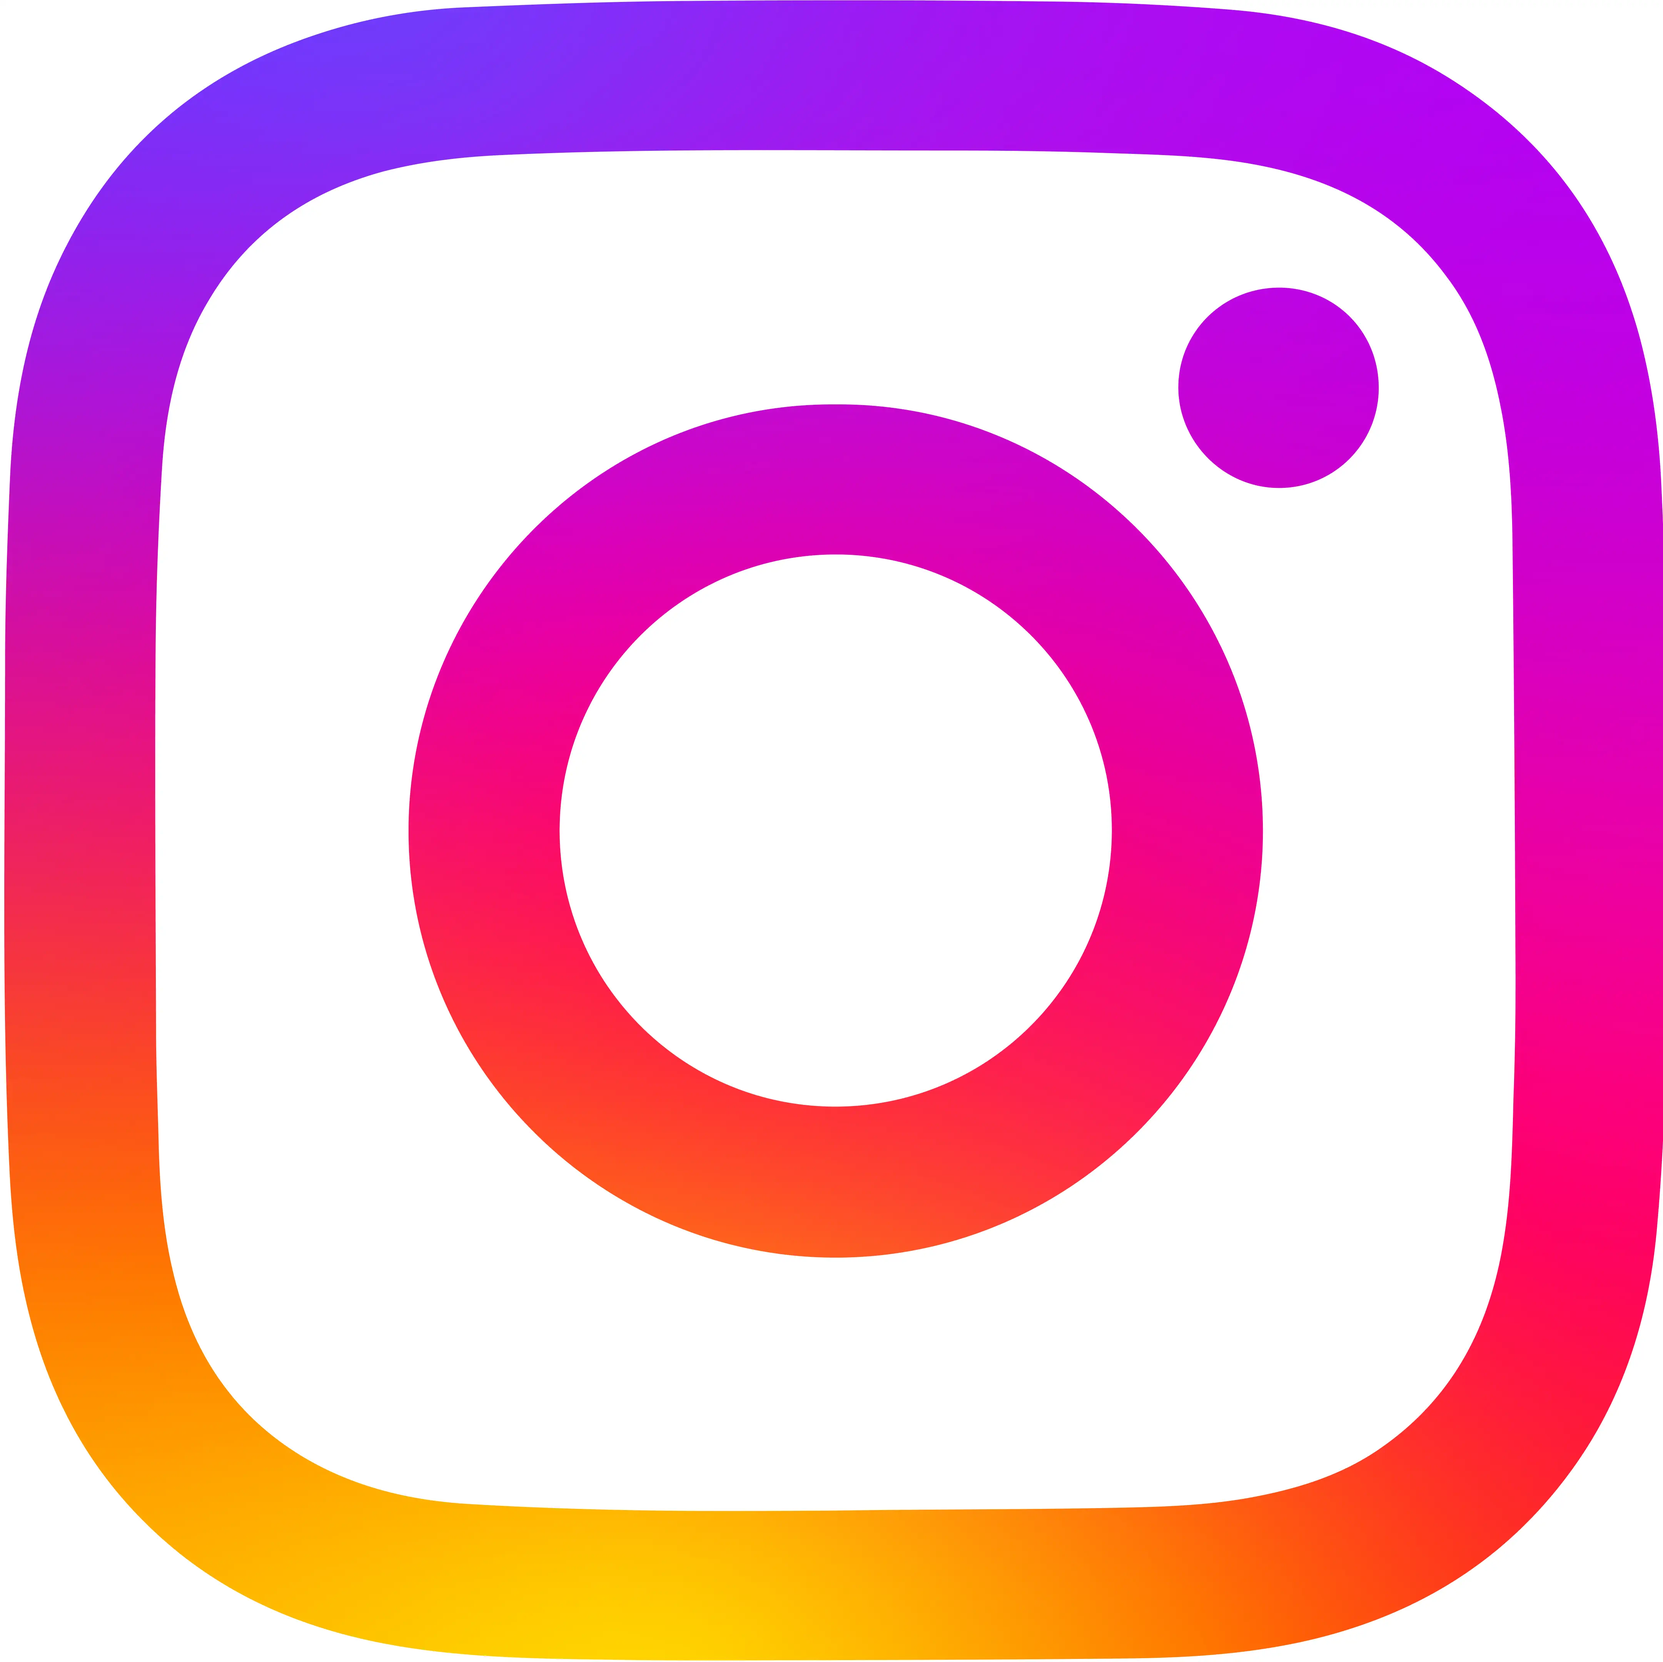
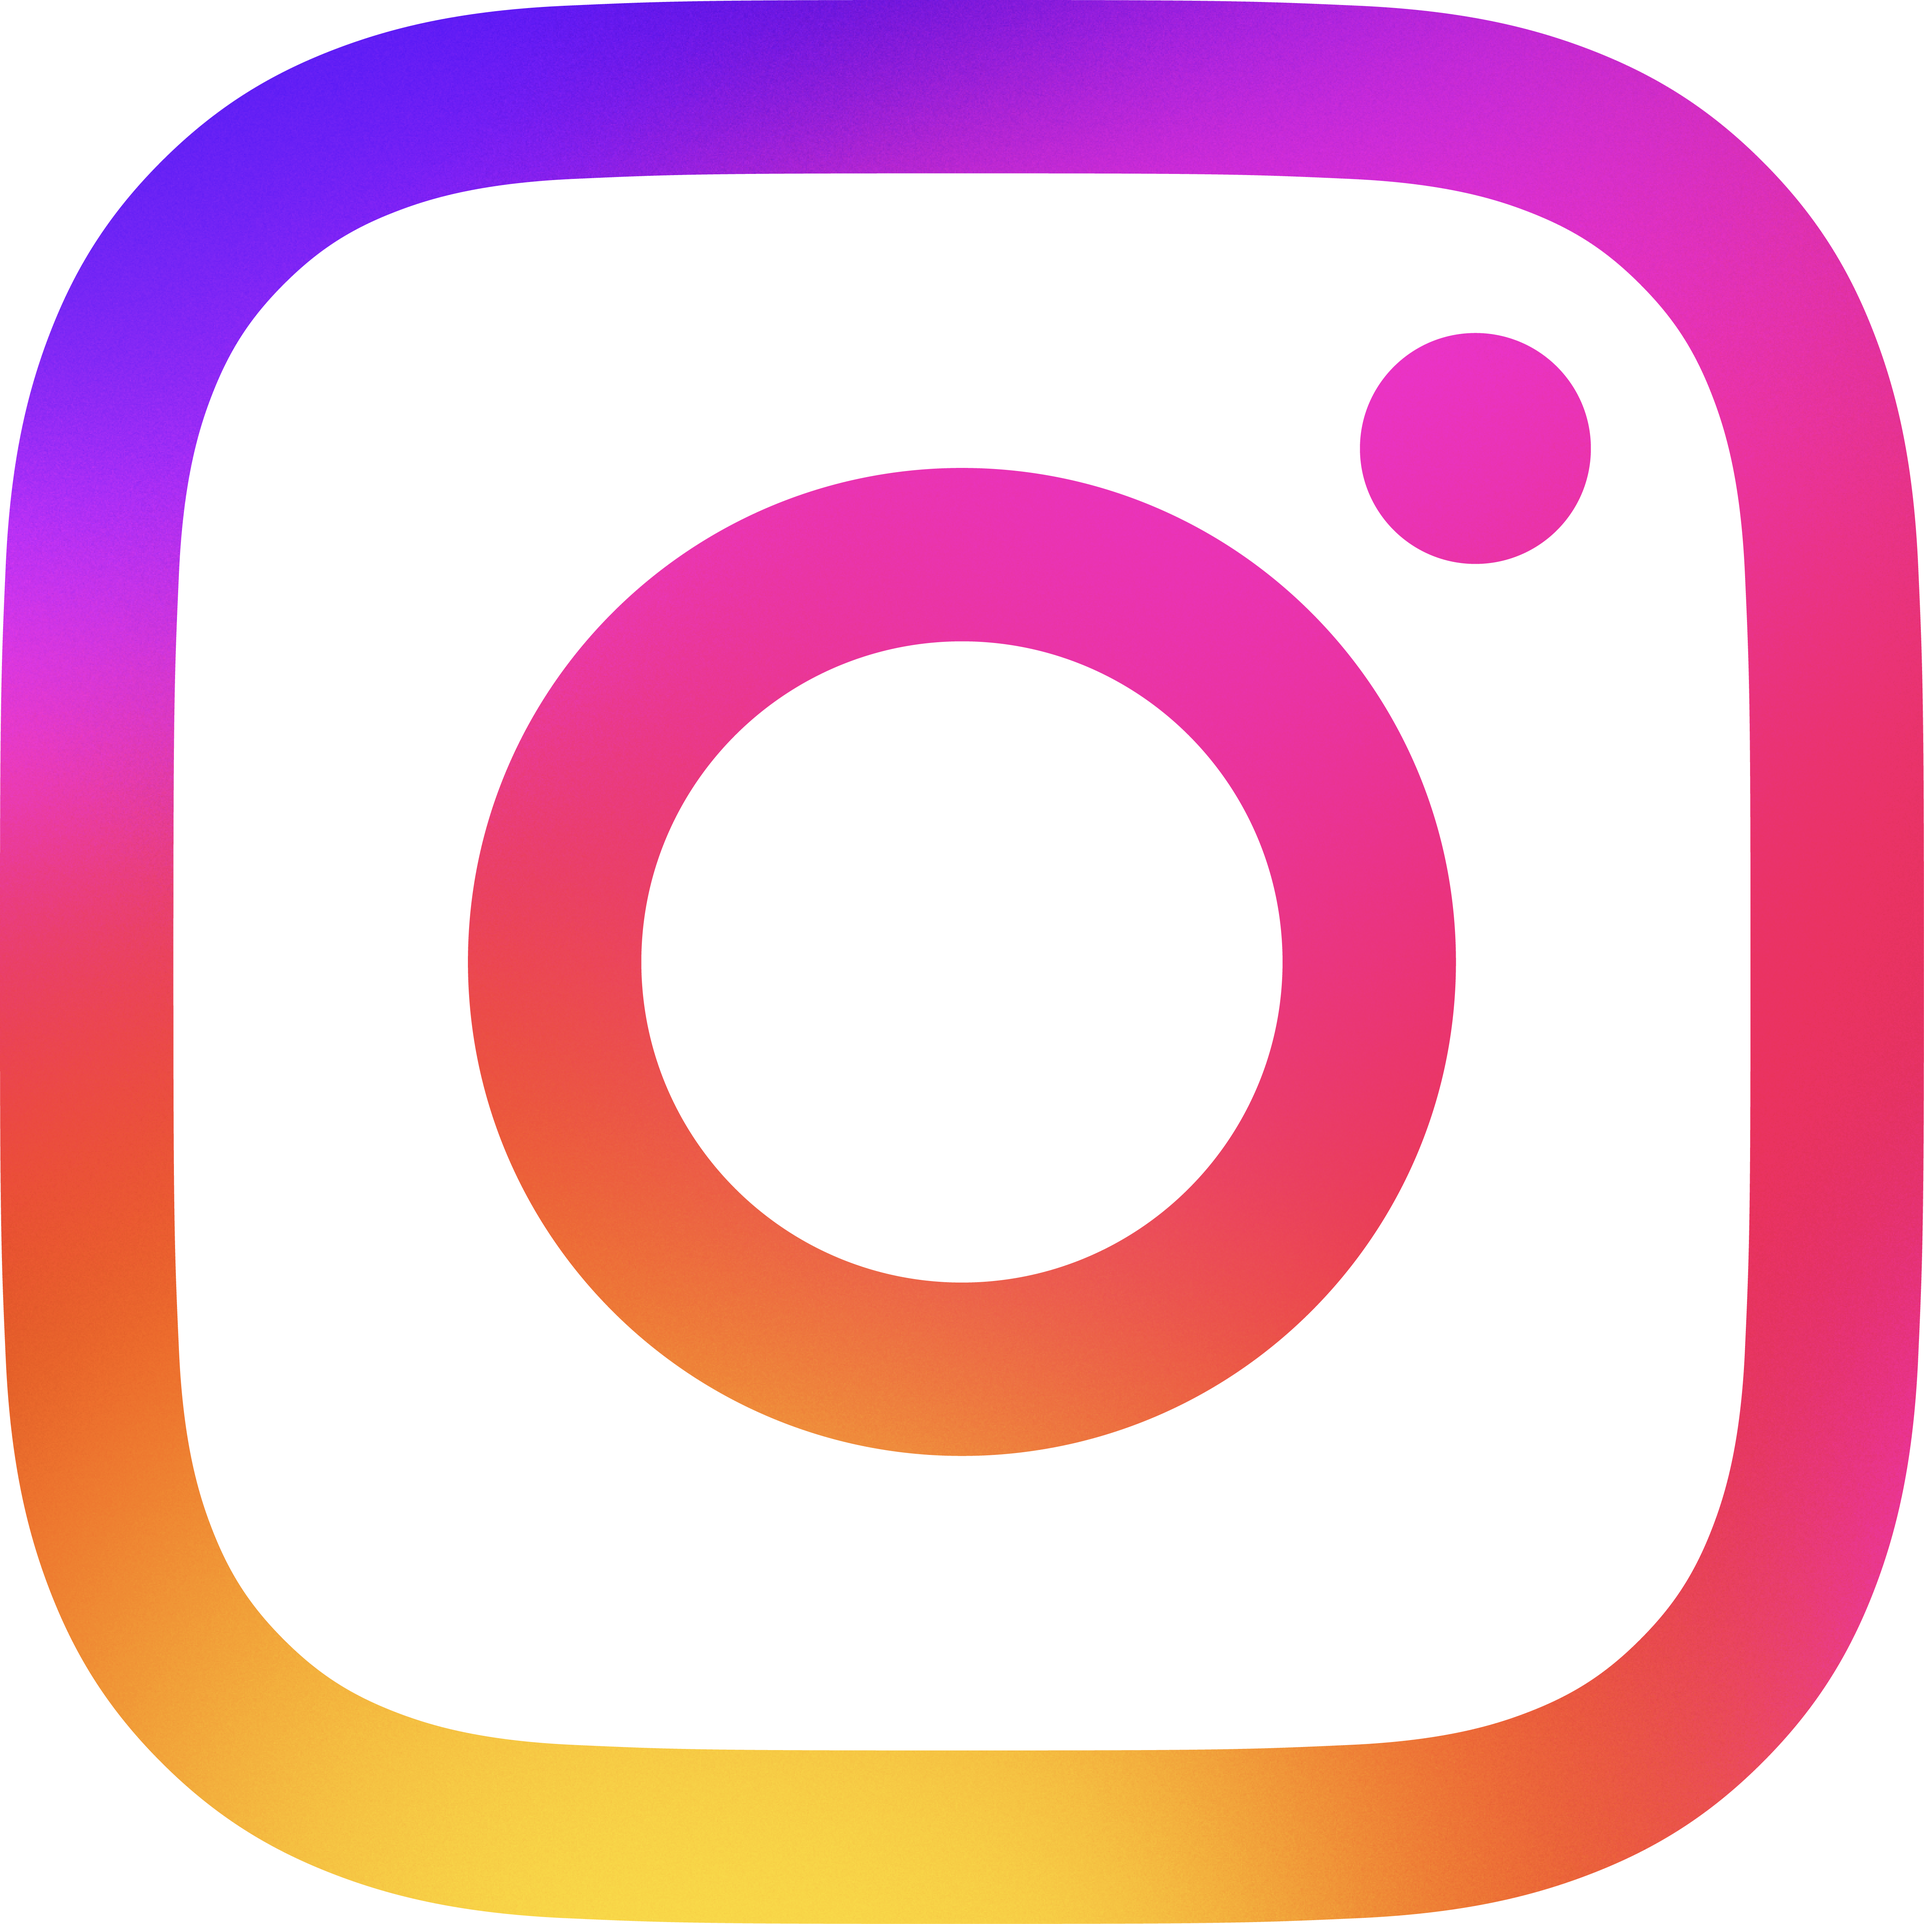
アイコン変更&prettier適用
アイコンを変更＆_footer内のcssとhtmlにprettierを適用

diff --git a/_footer/footer.css b/_footer/footer.css
@@ -1,162 +1,159 @@
 @charset "utf-8"; /* 文字化けしないために書く */
 footer {
-    position: relative;
-    width: 100%;
-    height: 350px;
-    border-top: 3px solid #5CB200;
-    background-color: #fff;
-    font-family: 'IBM Plex Sans JP', sans-serif;
+  position: relative;
+  width: 100%;
+  height: 350px;
+  border-top: 3px solid #5cb200;
+  background-color: #fff;
+  font-family: "IBM Plex Sans JP", sans-serif;
 }
 .tpgicon {
-    position: absolute;
-    display: block;
-    height: 4vw;
-    width: 4vw;
-    transform: translate(-50%,-50%);
-    top: 4vw;
-    left: 17%;
+  position: absolute;
+  display: block;
+  height: 4vw;
+  width: 4vw;
+  transform: translate(-50%, -50%);
+  top: 4vw;
+  left: 17%;
 }
 .tpg_line {
-    position: absolute;
-    display: block;
-    height: 6vw;
-    width: 12vw;
-    transform: translate(-50%,-50%);
-    top: 4vw;
-    left: 25%;
+  position: absolute;
+  display: block;
+  height: 6vw;
+  width: 12vw;
+  transform: translate(-50%, -50%);
+  top: 4vw;
+  left: 25%;
 }
 .sns {
-    position: absolute;
-    display: flex;
-    left: 15%;
-    top: 7vw;
+  position: absolute;
+  display: flex;
+  left: 15%;
+  top: 7vw;
 }
 .snsicon {
-    width: 5vw;
-    height: 5vw;
-    margin-right: 10px;
+  width: 5vw;
+  height: 5vw;
+  margin-right: 10px;
 }
 .footer_btn {
-    position: absolute;
-    display: block;
-    left: 15%;
-    top: 13vw;
+  position: absolute;
+  display: block;
+  left: 15%;
+  top: 13vw;
 }
-.footer_btn a{
-    color: #fff;
-    font-size: 1rem;
-    letter-spacing: 0.12em;
-    padding: 0.8rem 1.5rem;
-    background-color: #181818;
+.footer_btn a {
+  color: #fff;
+  font-size: 1rem;
+  letter-spacing: 0.12em;
+  padding: 0.8rem 1.5rem;
+  background-color: #181818;
 }
 .footer_btn a:hover {
-    color :#282626;
-    background-color: #fff;
-    border: 0.5px solid #181818;
+  color: #282626;
+  background-color: #fff;
+  border: 0.5px solid #181818;
 }
 .contact {
-    position: absolute;
-    right: 17%;
+  position: absolute;
+  right: 17%;
 }
-.contact h3{
-    font-size: 1.1rem;
+.contact h3 {
+  font-size: 1.1rem;
 }
-.list p{
-    font-size: 1.1rem;
-    color: #181818;
-    padding: 0;
-    margin: 0;
+.list p {
+  font-size: 1.1rem;
+  color: #181818;
+  padding: 0;
+  margin: 0;
 }
 .sns_id {
-    position: relative;
-    display: flex;
-    width: 16vw;
-    height: 2rem;
-    margin-top: 2px;
+  position: relative;
+  display: flex;
+  width: 16vw;
+  height: 2rem;
+  margin-top: 2px;
 }
 .sns_id img {
-    position: absolute;
-    display: block;
-    width: 1.1rem;
-    height: 1.1rem;
-    transform: translate(0, -50%);
-    top: 50%;
-    left: 0;
+  position: absolute;
+  display: block;
+  width: 1.1rem;
+  height: 1.1rem;
+  transform: translate(0, -50%);
+  top: 50%;
+  left: 0;
 }
-.sns_id p{
-    position: absolute;
-    transform: translate(0, -50%);
-    top: 50%;
-    left: 1.2rem;
+.sns_id p {
+  position: absolute;
+  transform: translate(0, -50%);
+  top: 50%;
+  left: 1.2rem;
 }
-.sns_id a{
-    position: absolute;
-    display: block;
-    width: 100%;
-    height: 100%;
-    top: 0;
-    left: 0;
+.sns_id a {
+  position: absolute;
+  display: block;
+  width: 100%;
+  height: 100%;
+  top: 0;
+  left: 0;
 }
-.list a{
-    color: #181818;
-}
-.material-symbols-outlined {/* googleiconsからコピペ */
-  font-variation-settings:
-  'FILL' 0,
-  'wght' 200,
-  'GRAD' 0,
-  'opsz' 40
+.list a {
+  color: #181818;
 }
 .material-symbols-outlined {
-    margin-top: 5px;
+  /* googleiconsからコピペ */
+  font-variation-settings: "FILL" 0, "wght" 200, "GRAD" 0, "opsz" 40;
 }
-.c{
-    position: absolute;
-    margin-bottom: 0;
-    bottom: 0;
-    left: 50%;
-    transform: translate(-50%,-50%);
-    font-weight: normal;
-    font-size: 1rem;
+.material-symbols-outlined {
+  margin-top: 5px;
+}
+.c {
+  position: absolute;
+  margin-bottom: 0;
+  bottom: 0;
+  left: 50%;
+  transform: translate(-50%, -50%);
+  font-weight: normal;
+  font-size: 1rem;
 }
 
-@media screen and (max-width: 1024px){
-    footer {
-        height: 300px;
-    }
+@media screen and (max-width: 1024px) {
+  footer {
+    height: 300px;
+  }
 }
 @media screen and (max-width: 670px) {
-    footer {
-        height: 100vw;
-    }
-    .tpgicon {
-        width: 14vw;
-        height: 14vw;
-        top: 13vw;
-        left: 25vw;
-    }
-    .tpg_line {
-        width: 50vw;
-        height: 25vw;
-        top: 13vw;
-        left: 57vw;
-    }
-    .sns {
-        display: none;
-    }
-    .contact {
-        position: absolute;
-        width: 84%;
-        top: 20vw;
-        left: 8%;
-    }
-    .footer_btn {
-        position: absolute;
-        transform: translate(-50%,-50%);
-        top: 80vw;
-        left: 50%;
-    }
-    .c {
-        white-space: nowrap;/* 改行させない */
-    }
+  footer {
+    height: 100vw;
+  }
+  .tpgicon {
+    width: 14vw;
+    height: 14vw;
+    top: 13vw;
+    left: 25vw;
+  }
+  .tpg_line {
+    width: 50vw;
+    height: 25vw;
+    top: 13vw;
+    left: 57vw;
+  }
+  .sns {
+    display: none;
+  }
+  .contact {
+    position: absolute;
+    width: 84%;
+    top: 20vw;
+    left: 8%;
+  }
+  .footer_btn {
+    position: absolute;
+    transform: translate(-50%, -50%);
+    top: 80vw;
+    left: 50%;
+  }
+  .c {
+    white-space: nowrap; /* 改行させない */
+  }
 }

diff --git a/_footer/footer.html b/_footer/footer.html
@@ -1,44 +1,45 @@
 <div class="footer_items">
-    <img src="/_footer/_img/tpg_icon.webp" class="tpgicon">
-    <img src="/_footer/_img/tpg_logoline.webp" class="tpg_line">
-    <div class="sns">
-        <a href="https://twitter.com/TPGardener">
-            <img src="/_footer/_img/twitter.webp" class="snsicon twitter">
+  <img src="/_footer/_img/tpg_icon.webp" class="tpgicon" />
+  <img src="/_footer/_img/tpg_logoline.webp" class="tpg_line" />
+  <div class="sns">
+    <a href="https://twitter.com/TPGardener">
+      <img src="/_footer/_img/twitter.webp" class="snsicon twitter" />
+    </a>
+    <a href="https://www.instagram.com/taki_plaza_gardener/">
+      <img src="/_footer/_img/instagram.webp" class="snsicon" />
+    </a>
+    <a href="https://www.youtube.com/channel/UCwU5xd_dpFeJK5kAVBXGRLg/featured">
+      <img src="/_footer/_img/youtube.webp" class="snsicon" />
+    </a>
+    <a href="https://www.facebook.com/TakiPlazaGardener.tokyotech/">
+      <img src="/_footer/_img/facebook.webp" class="snsicon" />
+    </a>
+  </div>
+  <div class="footer_btn">
+    <a href="/joinus/index.html">Join us ></a>
+  </div>
+  <div class="contact">
+    <h3>Contact</h3>
+    <div class="list">
+      <p>・SNS</p>
+      <div class="sns_id">
+        <img src="/_footer/_img/twitter.webp" />
+        <p class="footer_text">@TPGardener</p>
+        <a href="https://twitter.com/TPGardener"></a>
+      </div>
+      <div class="sns_id">
+        <img src="/_footer/_img/instagram.webp" />
+        <p class="footer_text">@taki_plaza_gardener</p>
+        <a href="https://www.instagram.com/taki_plaza_gardener/"></a>
+      </div>
+      <p>
+        ・email<br />
+        <a href="#" class="footer_text">
+          <span class="material-symbols-outlined"></span>
+          takiplaza.gardener@gmail.com
         </a>
-        <a href="https://www.instagram.com/taki_plaza_gardener/">
-            <img src="/_footer/_img/instagram.webp" class="snsicon">
-        </a>
-        <a href="https://www.youtube.com/channel/UCwU5xd_dpFeJK5kAVBXGRLg/featured">
-            <img src="/_footer/_img/youtube.webp" class="snsicon">
-        </a>
-        <a href="https://www.facebook.com/TakiPlazaGardener.tokyotech/">
-            <img src="/_footer/_img/facebook.webp" class="snsicon">
-        </a>
+      </p>
     </div>
-    <div class = footer_btn>
-        <a href="/joinus/index.html">Join us ></a>
-    </div>
-    <div class="contact">
-        <h3>Contact</h3>
-        <div class="list">
-            <p>・SNS</p>
-            <div class="sns_id">
-                <img src="/_footer/_img/twitter.webp">
-                <p class="footer_text">@TPGardener</p>
-                <a href="https://twitter.com/TPGardener"></a>
-            </div>
-            <div class="sns_id">
-                <img src="/_footer/_img/instagram.webp">
-                <p class="footer_text">@taki_plaza_gardener</p>
-                <a href="https://www.instagram.com/taki_plaza_gardener/"></a>
-            </div>
-            <p>・email<br>
-                <a href="#" class="footer_text">
-                    <span class="material-symbols-outlined"></span>
-                    takiplaza.gardener@gmail.com
-                </a>
-            </p>
-        </div>
-    </div>
-    <h3 class="c">© 2023 Taki Plaza Gardener SAT</h3>
+  </div>
+  <h3 class="c">© 2023 Taki Plaza Gardener SAT</h3>
 </div>
